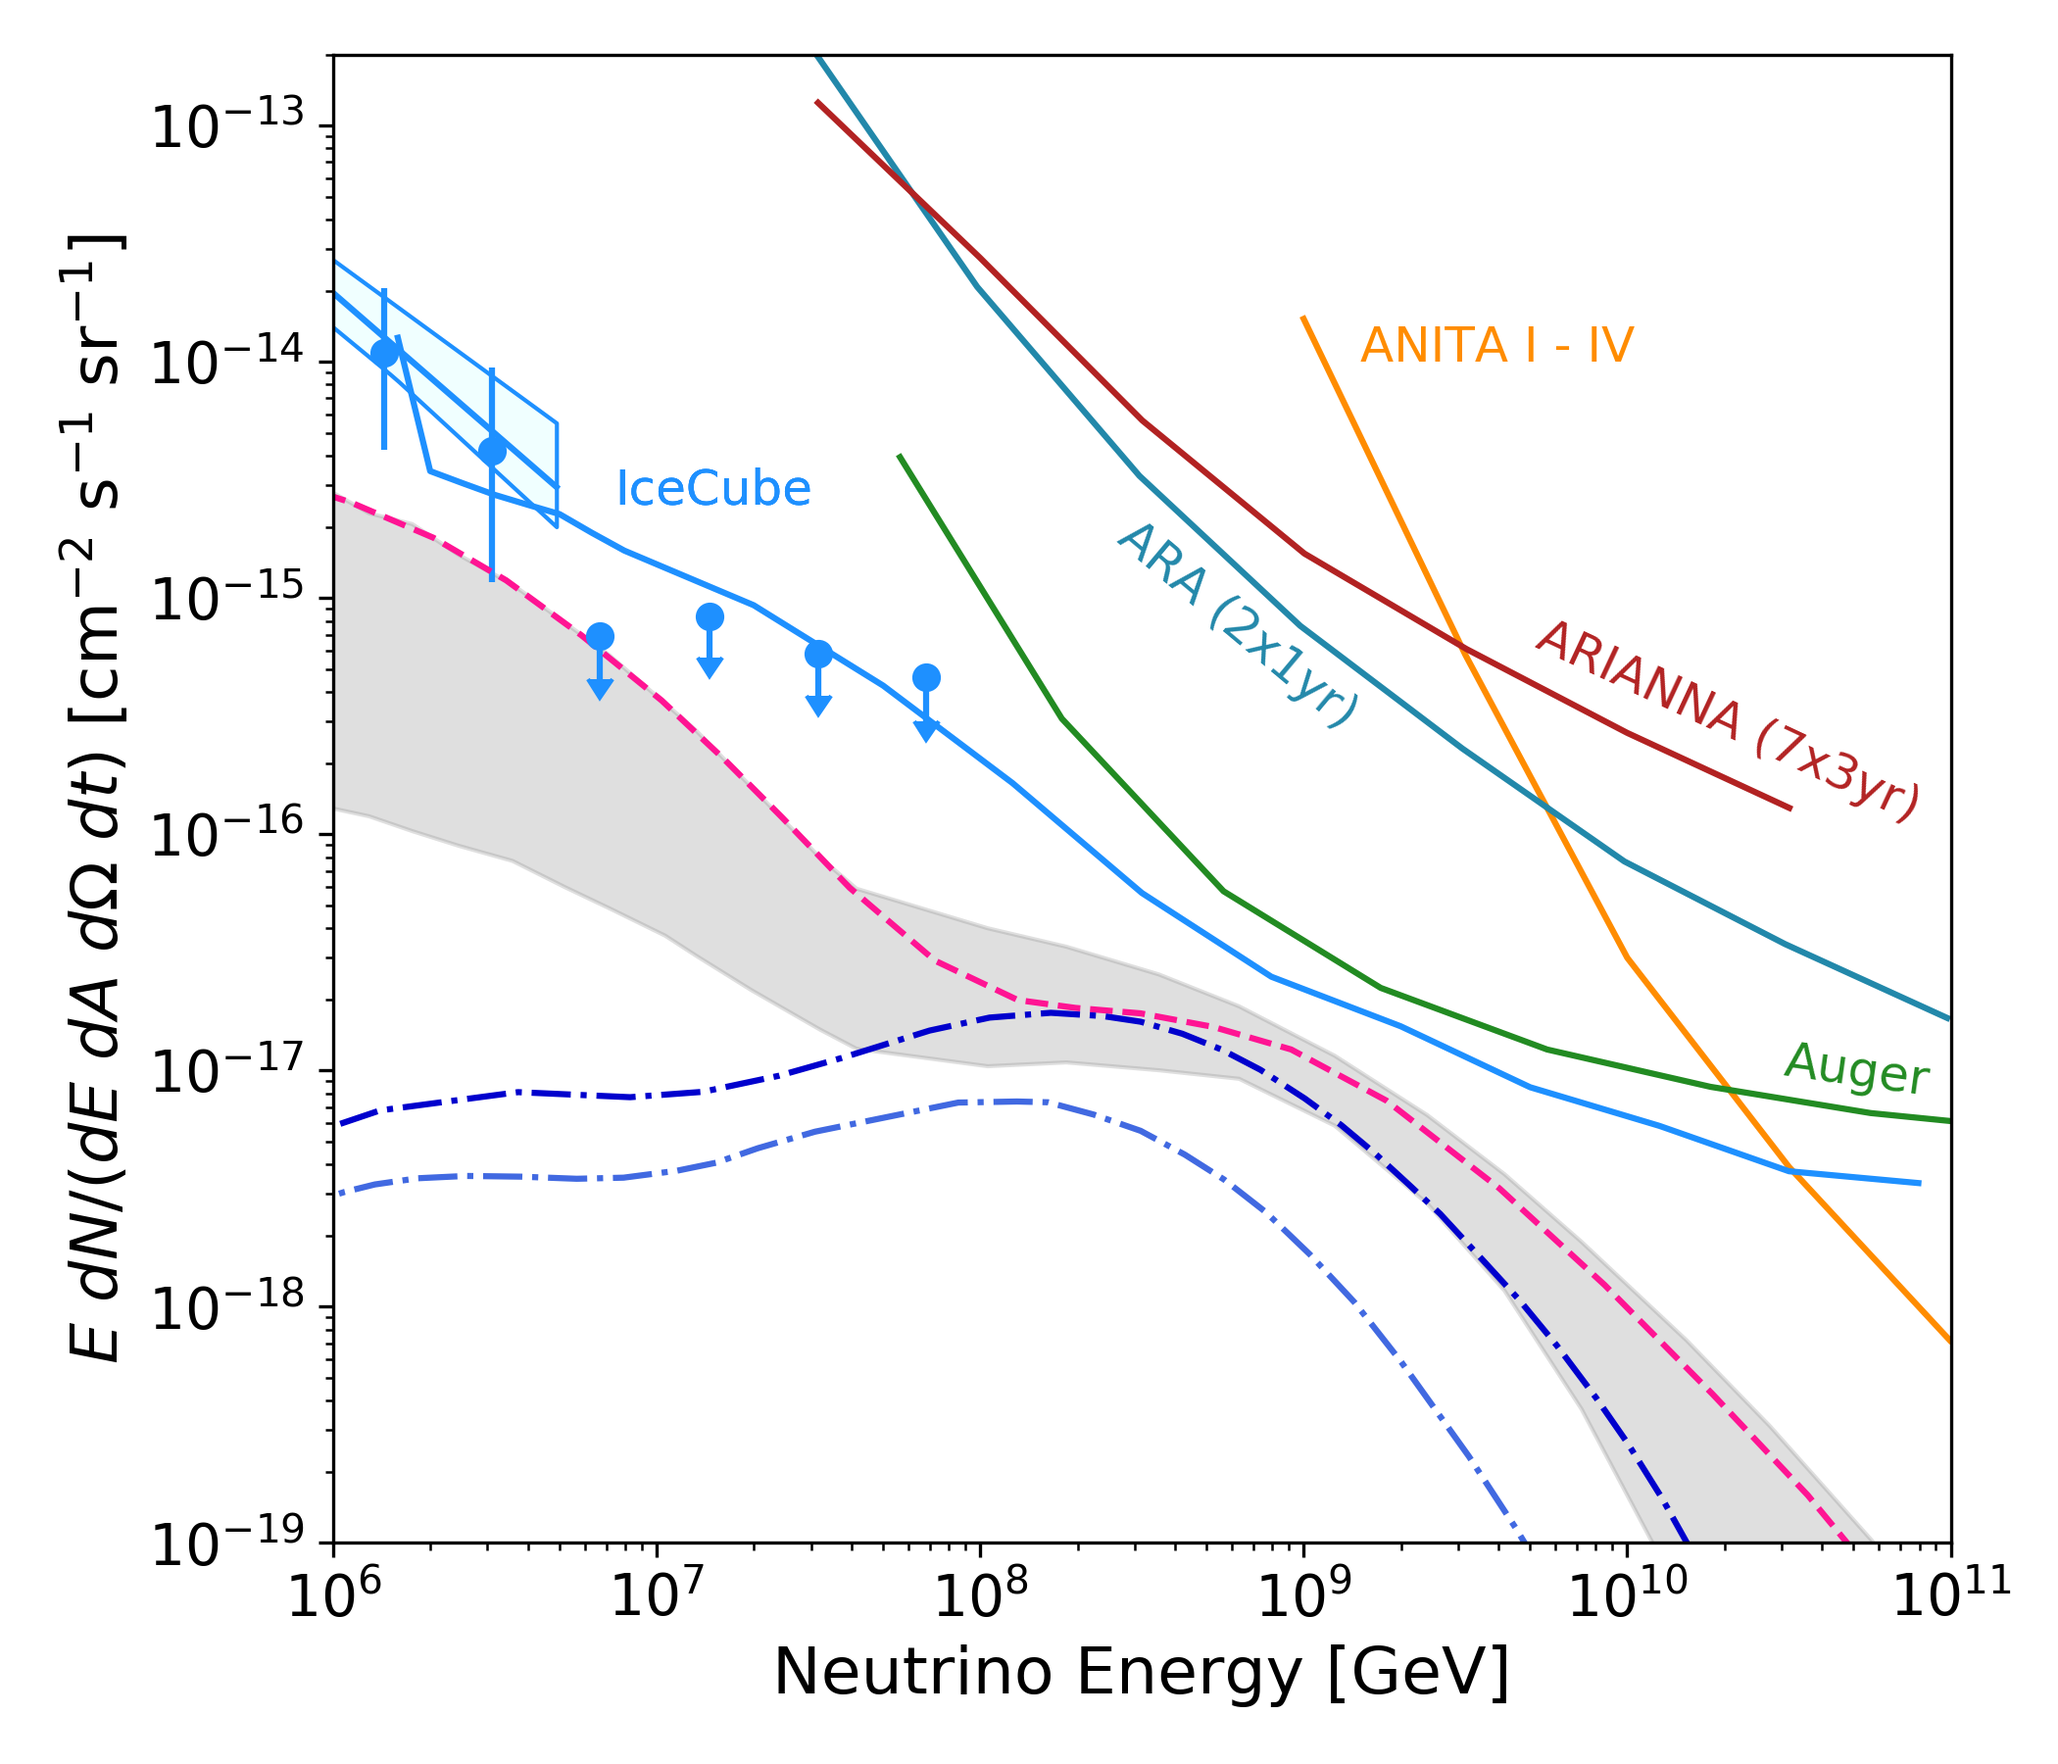
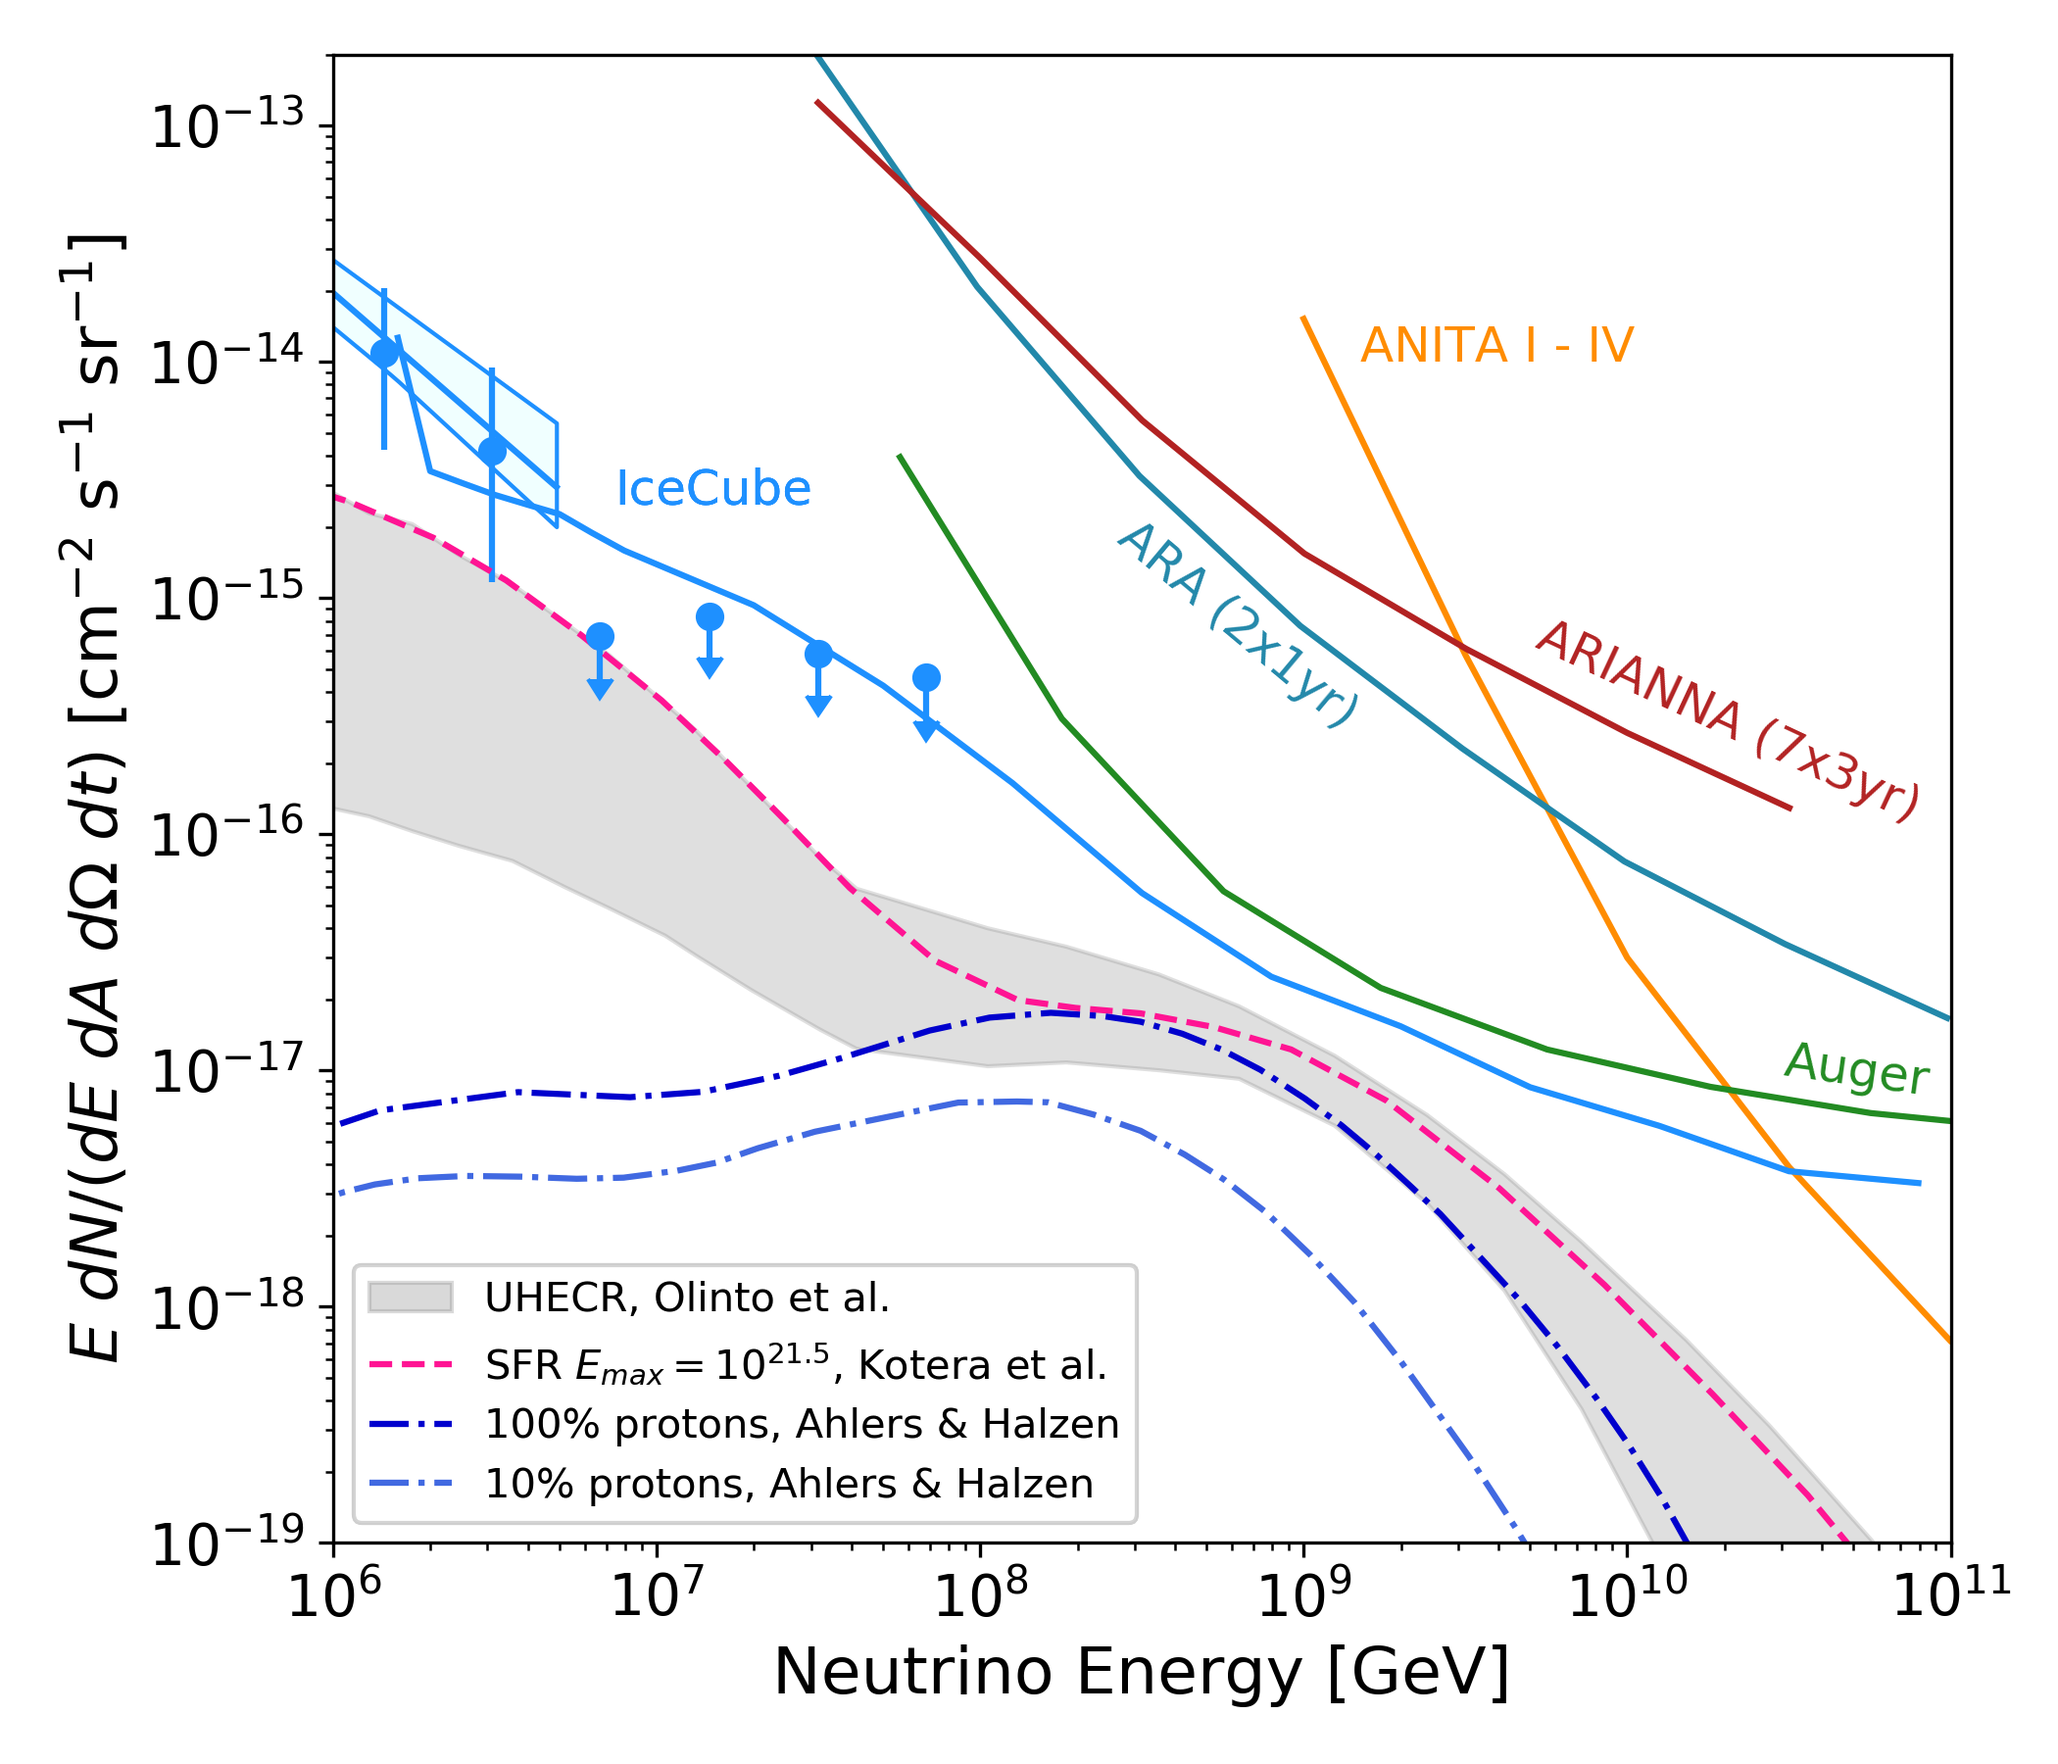
put legend back in for theoretical models

Changed region(s): [[0.1548, 0.7156, 0.5571, 0.8711], [0.5262, 0.7156, 0.5571, 0.7467]]

diff --git a/introduction/current_limits/limits.py b/introduction/current_limits/limits.py
@@ -551,12 +551,12 @@ class LimitFigure:
         self.ax.title.set_fontsize(size)
 
     def show(self, legend_size=12, save_name=None, *args, **kwargs):
-        # if self.e_power==2:
-        #     self.ax.add_artist(plt.legend(handles=self.neutrino_models, loc=4, fontsize=legend_size))
-        #     self.ax.add_artist(plt.legend(handles=self.custom_limits, loc=2, fontsize=legend_size))
-        # elif self.e_power==1:
-        #     self.ax.add_artist(plt.legend(handles=self.neutrino_models, loc=3, fontsize=legend_size))
-        #     self.ax.add_artist(plt.legend(handles=self.custom_limits, loc=1, fontsize=legend_size))
+        if self.e_power==2:
+            self.ax.add_artist(plt.legend(handles=self.neutrino_models, loc=4, fontsize=legend_size))
+            self.ax.add_artist(plt.legend(handles=self.custom_limits, loc=2, fontsize=legend_size))
+        elif self.e_power==1:
+            self.ax.add_artist(plt.legend(handles=self.neutrino_models, loc=3, fontsize=legend_size))
+            # self.ax.add_artist(plt.legend(handles=self.custom_limits, loc=1, fontsize=legend_size))
         plt.tight_layout()
         if save_name is not None:
             plt.savefig(save_name, *args, **kwargs)
